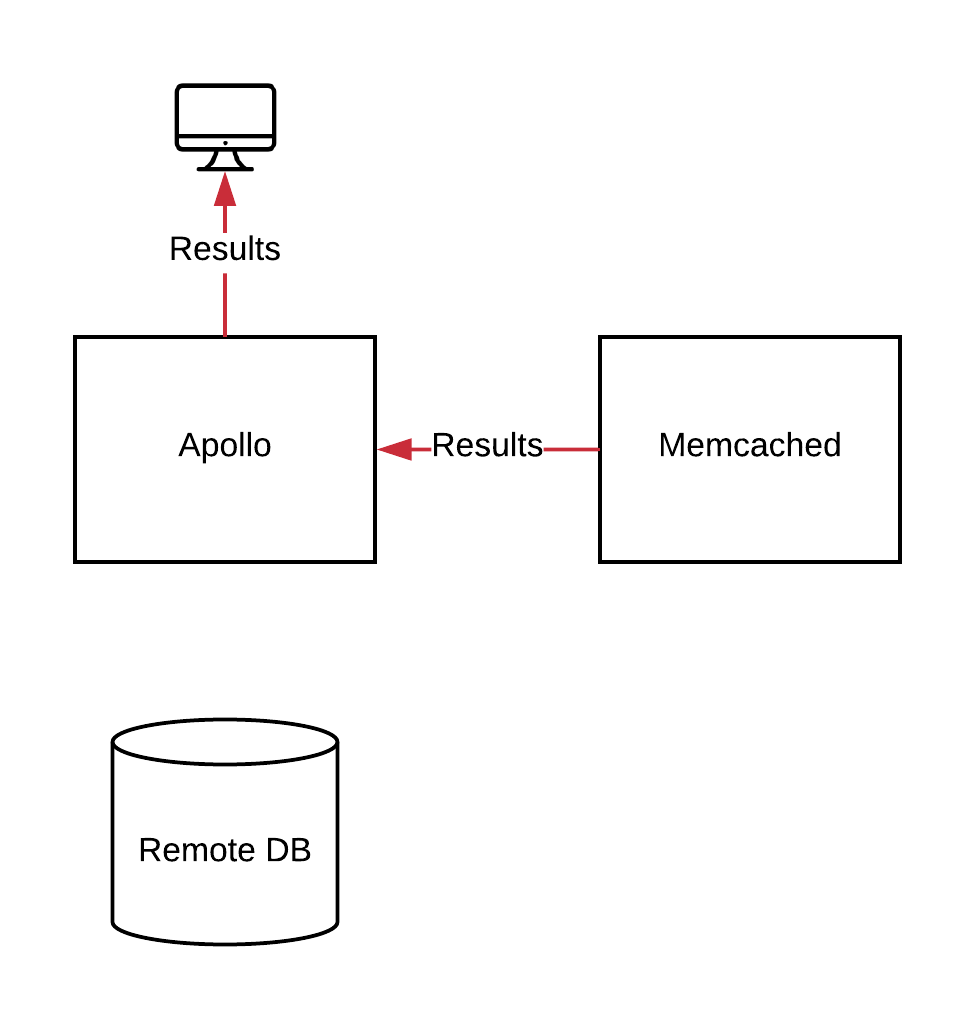
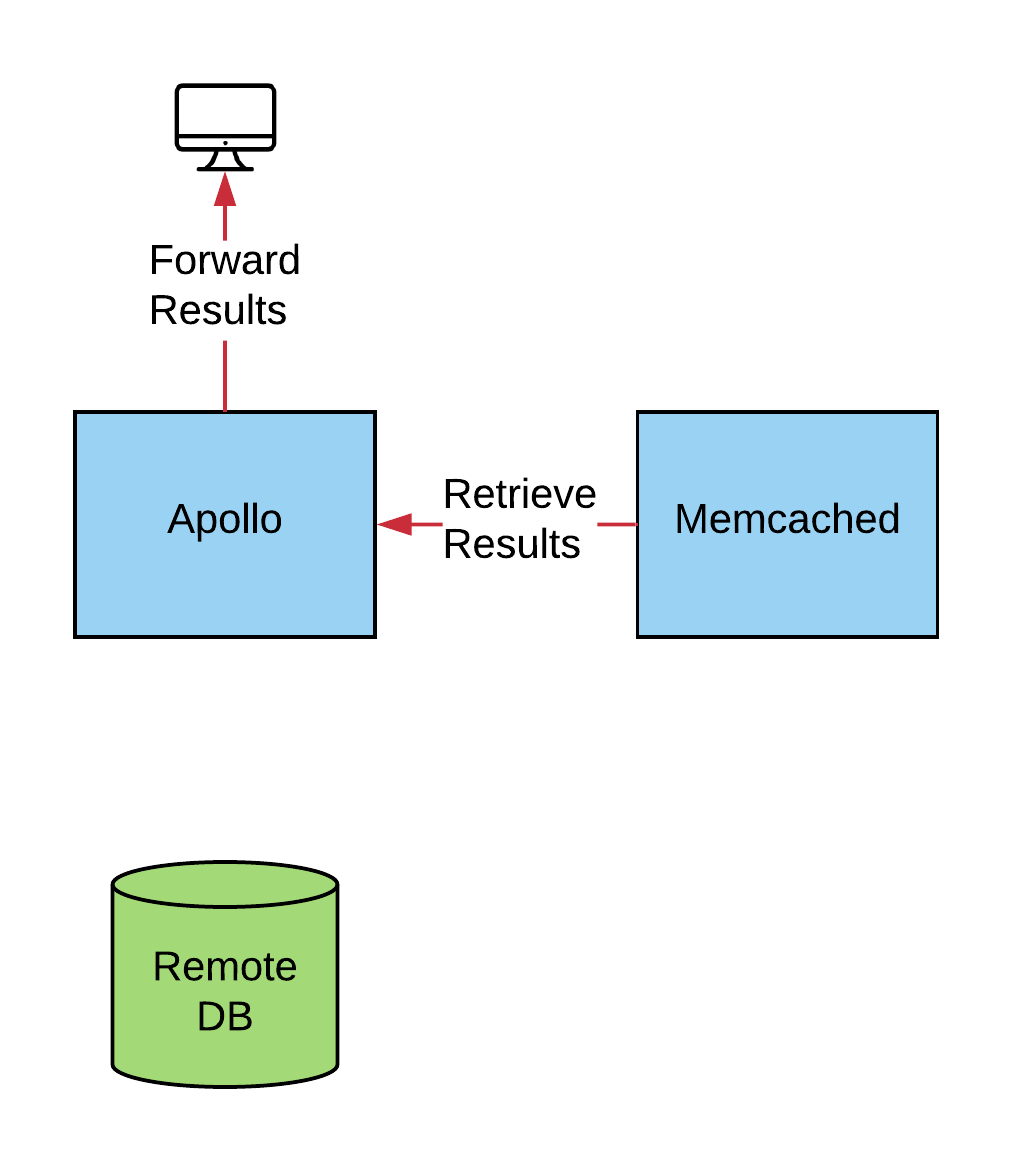
After Michael Edits

Changed region(s): [[0.0615, 0.0608, 0.9231, 0.5775], [0.0923, 0.699, 0.3692, 0.9422]]

diff --git a/demo.tex b/demo.tex
@@ -508,7 +508,7 @@ Reload an ADQ after executing a write query if:
 
 \begin{frame}[fragile]{Apollo Architecture}
     \begin{figure}
-        \includegraphics[scale=0.17]{apollo_arch_diagram_5}
+        \includegraphics[scale=0.17]{apollo_arch_diagram_4}
     \end{figure}
 \end{frame}
 
